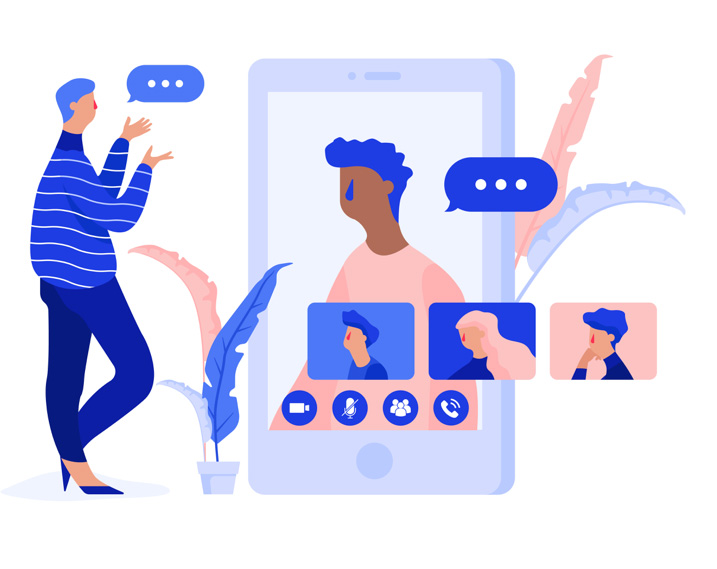
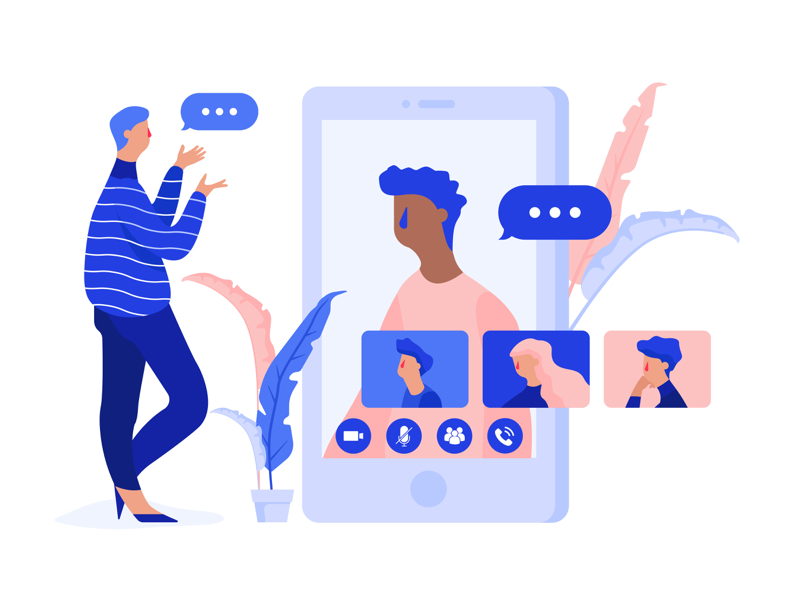
Update task2

Changed region(s): [[0.0307, 0.0896, 0.9512, 0.8963], [0.7671, 0.0896, 0.8591, 0.2689]]

diff --git a/task2/css/style.css b/task2/css/style.css
@@ -1,7 +1,6 @@
 body,
 a {
-    font: 700 15px/28px 'Lato', sans-serif;
-    /* letter-spacing: 0.75px; */
+    font: 400 15px/28px 'Lato', sans-serif;
     color: #060c31;
     text-decoration: none;
 }
@@ -10,10 +9,20 @@ a, a:focus {
     outline: none
 }
 
-.content {
-    max-width: fit-content;
+/* Grids */
+.content_wrapper {
+    width: 1440px;
     margin: 0 auto;
 }
+
+.content_wrapper .header {
+    padding: 0 80px 0 88px;
+}
+
+.content_wrapper .footer {
+    padding: 0 88px;
+}
+/* /Grids */
 
 /* Header */
 .header {
@@ -22,11 +31,12 @@ a, a:focus {
 
 .header_logo {
     margin-top: 68px;
+    margin-bottom: 8px;
     width: 60px;
 }
 
 .header_menu {
-    display: inline-block;
+    display: block;
     float: right;
     margin-top: 60px;
 }
@@ -37,42 +47,17 @@ a, a:focus {
     margin-right: 40px;
 }
 
+.header_menu_item:hover {
+    color: #000a4b;
+    text-decoration: underline;
+}
+
 .header_menu_item:not(:first-child) {
     margin-left: -4px;
 }
 
 .header_menu_button {
     margin-left: -4px;
-}
-/* / Header */
-
-/* Main */
-
-.main_text_wrapper {
-    display: inline-block;
-    vertical-align: middle;
-}
-
-.main_picture {
-    display: inline-block;
-    vertical-align: middle;
-}
-
-.main .main_title {
-    width: 500px;
-    margin-bottom: 36px;
-    font: 400 58px/64px 'Crete Round', serif;   
-    /* letter-spacing: 2.9px; */
-    color: #060c31;
-}
-
-.main .main_text {
-    width: 420px;
-    margin-bottom: 48px;
-}
-
-.main__buttons {
-    margin-bottom: 28px;
 }
 
 .button {
@@ -91,6 +76,33 @@ a, a:focus {
 .button:active {
     background-color: #ffe9e9;
 }
+/* / Header */
+
+/* Main */
+.main {
+    margin-bottom: 104px;
+}
+
+.main_text_wrapper {
+    margin-left: 200px;
+    display: inline-block;
+    vertical-align: middle;
+}
+
+.main_title {
+    width: 500px;
+    margin-bottom: 42px;
+    font: 400 58px/64px 'Crete Round', serif;
+    color: #060c31;
+}
+
+.main_text {
+    width: 420px;
+    margin-bottom: 76px;
+    letter-spacing: 0.75px;
+    font-weight: 700;
+    text-shadow: 0px 2px 4px rgba(0, 0, 0, 0.5)
+}
 
 .button.button_accept {
     padding: 11px 35px;
@@ -106,4 +118,27 @@ a, a:focus {
 .button.button_accept:active {
     background-color: #1b2fa0;
 }
+
+.main_picture {
+    display: inline-block;
+    vertical-align: middle;
+    margin-left: -57px;
+
+    width: 790px;
+}
 /* /Main */
+
+/* Footer */
+.footer {
+    height: 76px;
+}
+
+.footer_clients_wrapper {
+    float: right;
+}
+
+.client_link {
+    vertical-align: middle;
+    margin-left: 104px;
+}
+/* /Footer */

diff --git a/task2/index.html b/task2/index.html
@@ -14,7 +14,9 @@
 <body>
     <div class="content_wrapper">
         <header class="header">
-            <img src="./media/logo.png" alt="logo Mix" class="header_logo">
+            <a href="#" title="Home">
+                <img src="./media/logo.png" alt="logo Mix" class="header_logo">
+            </a>
             <nav class="header_menu">
                 <a href="#" class="header_menu_item">Product</a>
                 <a href="#" class="header_menu_item">Pricing</a>
@@ -38,6 +40,25 @@
             </div>
             <img src="./media/clipart.jpg" alt="Illustration" class="main_picture">
         </main>
+        <footer class="footer">
+            <div class="footer_clients_wrapper">
+                <a href="#" class="client_link" title="Altmetric">
+                    <img src="./media/clients_logo/logo_altmetric.png" alt="Altmetric" class="client_logo">
+                </a>
+                <a href="#" class="client_link" title="Coca-Cola">
+                    <img src="./media/clients_logo/logo_cocacola.png" alt="Coca-Cola" class="client_logo">
+                </a>
+                <a href="#" class="client_link" title="Unicef">
+                    <img src="./media/clients_logo/logo_unicef.png" alt="Unicef" class="client_logo">
+                </a>
+                <a href="#" class="client_link" title="Gazin">
+                    <img src="./media/clients_logo/logo_gasin.png" alt="Gazin" class="client_logo">
+                </a>
+                <a href="#" class="client_link" title="GitHub">
+                    <img src="./media/clients_logo/logo_github.png" alt="GitHub" class="client_logo">
+                </a>
+            </div>
+        </footer>
     </div>
 </body>
 

diff --git a/task2/css/normalize.css b/task2/css/normalize.css
@@ -1,5 +1,7 @@
 /*! normalize.css v8.0.1 | MIT License | github.com/necolas/normalize.css */
-
+* {
+    box-sizing: border-box;
+}
 /* Document
      ========================================================================== */
 
@@ -11,7 +13,6 @@
 html {
     line-height: 1.15; /* 1 */
     -webkit-text-size-adjust: 100%; /* 2 */
-    box-sizing: border-box;
 }
 
 /* Sections
